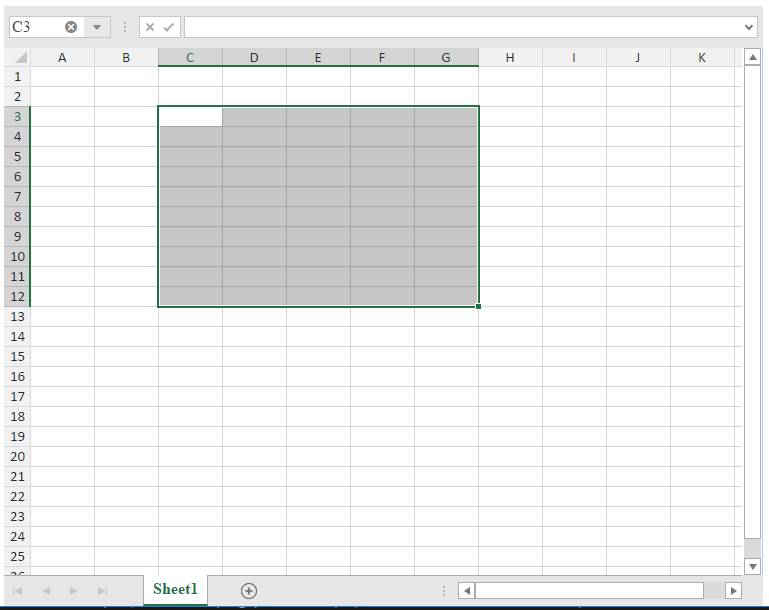
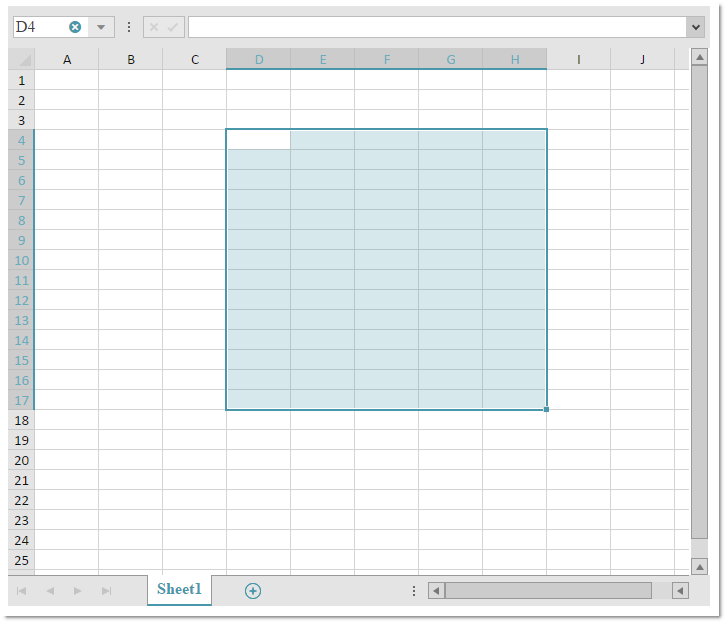
Adding images

diff --git a/topics/02_Controls/igSpreadsheet/00_igSpreadsheet_overview/05_igSpreadsheet_Context_Menu.md b/topics/02_Controls/igSpreadsheet/00_igSpreadsheet_overview/05_igSpreadsheet_Context_Menu.md
@@ -40,9 +40,10 @@ The worksheet column(s) or row(s) context menu allows the user to:
 
 - Hide/unhide and auto-size column(s) and row(s)
 
-The following screenshot shows the worksheet column(s) or row(s) context menu:
+The following screenshots shows the worksheet column(s) and row(s) context menu:
 
-![](images/!!!IMAGE WHEN THE STYLING IS READY.png)
+![](images/igSpreadsheet_context_menu_rows.png)
+![](images/igSpreadsheet_context_menu_columns.png)
 
 ## Context Menu on Worksheet cells
 
@@ -53,7 +54,10 @@ The worksheet cells context menu allows the user to:
 - Insert new empty cells
 
 - Delete cells or delete cells' content only
-![](images/!!!IMAGE WHEN THE STYLING IS READY.png)
+
+![](images/igSpreadsheet_context_menu.png)
+![](images/igSpreadsheet_context_menu_insert.png)
+![](images/igSpreadsheet_context_menu_delete.png)
 
 ## Context Menu for worksheets
 
@@ -70,10 +74,10 @@ The context menu of the worksheets tabs area allows the user to:
 - Unselect all worksheets ("Ungroup Sheets" menu item)
 
 The following screenshot shows the worksheets tab bar area context menu when one worksheet is selected:
-![](images/!!!IMAGE WHEN THE STYLING IS READY.png)
+![](images/igSpreadsheet_context_menu_sheet_tabs.png)
 
 The following screenshot shows the worksheets tab bar area context menu when several worksheets are selected:
-![](images/!!!IMAGE WHEN THE STYLING IS READY.png)
+![](images/igSpreadsheet_context_menu_sheet_multiple.png)
 
 ## Related Links
 

diff --git a/topics/02_Controls/igSpreadsheet/00_igSpreadsheet_overview/03_igSpreadsheet_Activation_and_Navigation_Interactions.md b/topics/02_Controls/igSpreadsheet/00_igSpreadsheet_overview/03_igSpreadsheet_Activation_and_Navigation_Interactions.md
@@ -34,7 +34,7 @@ The `igSpreadsheet` control's active cell is the cell on which the user may oper
 
 The following screenshot shows the `igSpreadsheet` control with the cell at address B3 activated:
 
-![](images/igSpreadsheet_Activation.jpg)
+![](images/igSpreadsheet_activeCell.png)
 
 ## <a id="spreadsheet_panes"></a>Spreadsheet Panes
 

diff --git a/topics/02_Controls/igSpreadsheet/00_igSpreadsheet_overview/00_igSpreadsheet_Feature_Overview.md b/topics/02_Controls/igSpreadsheet/00_igSpreadsheet_overview/00_igSpreadsheet_Feature_Overview.md
@@ -30,7 +30,7 @@ The `igSpreadsheet` control allows visualizing and editing of spreadsheet data, 
 
 The following screenshot shows the `igSpreadsheet` control displaying some spreadsheet data:
 
-![](images/igSpreadsheet_FeatureOverview.jpg)
+![](images/igSpreadsheet.png)
 
 ## <a id="main_features"></a>Main Features
 
